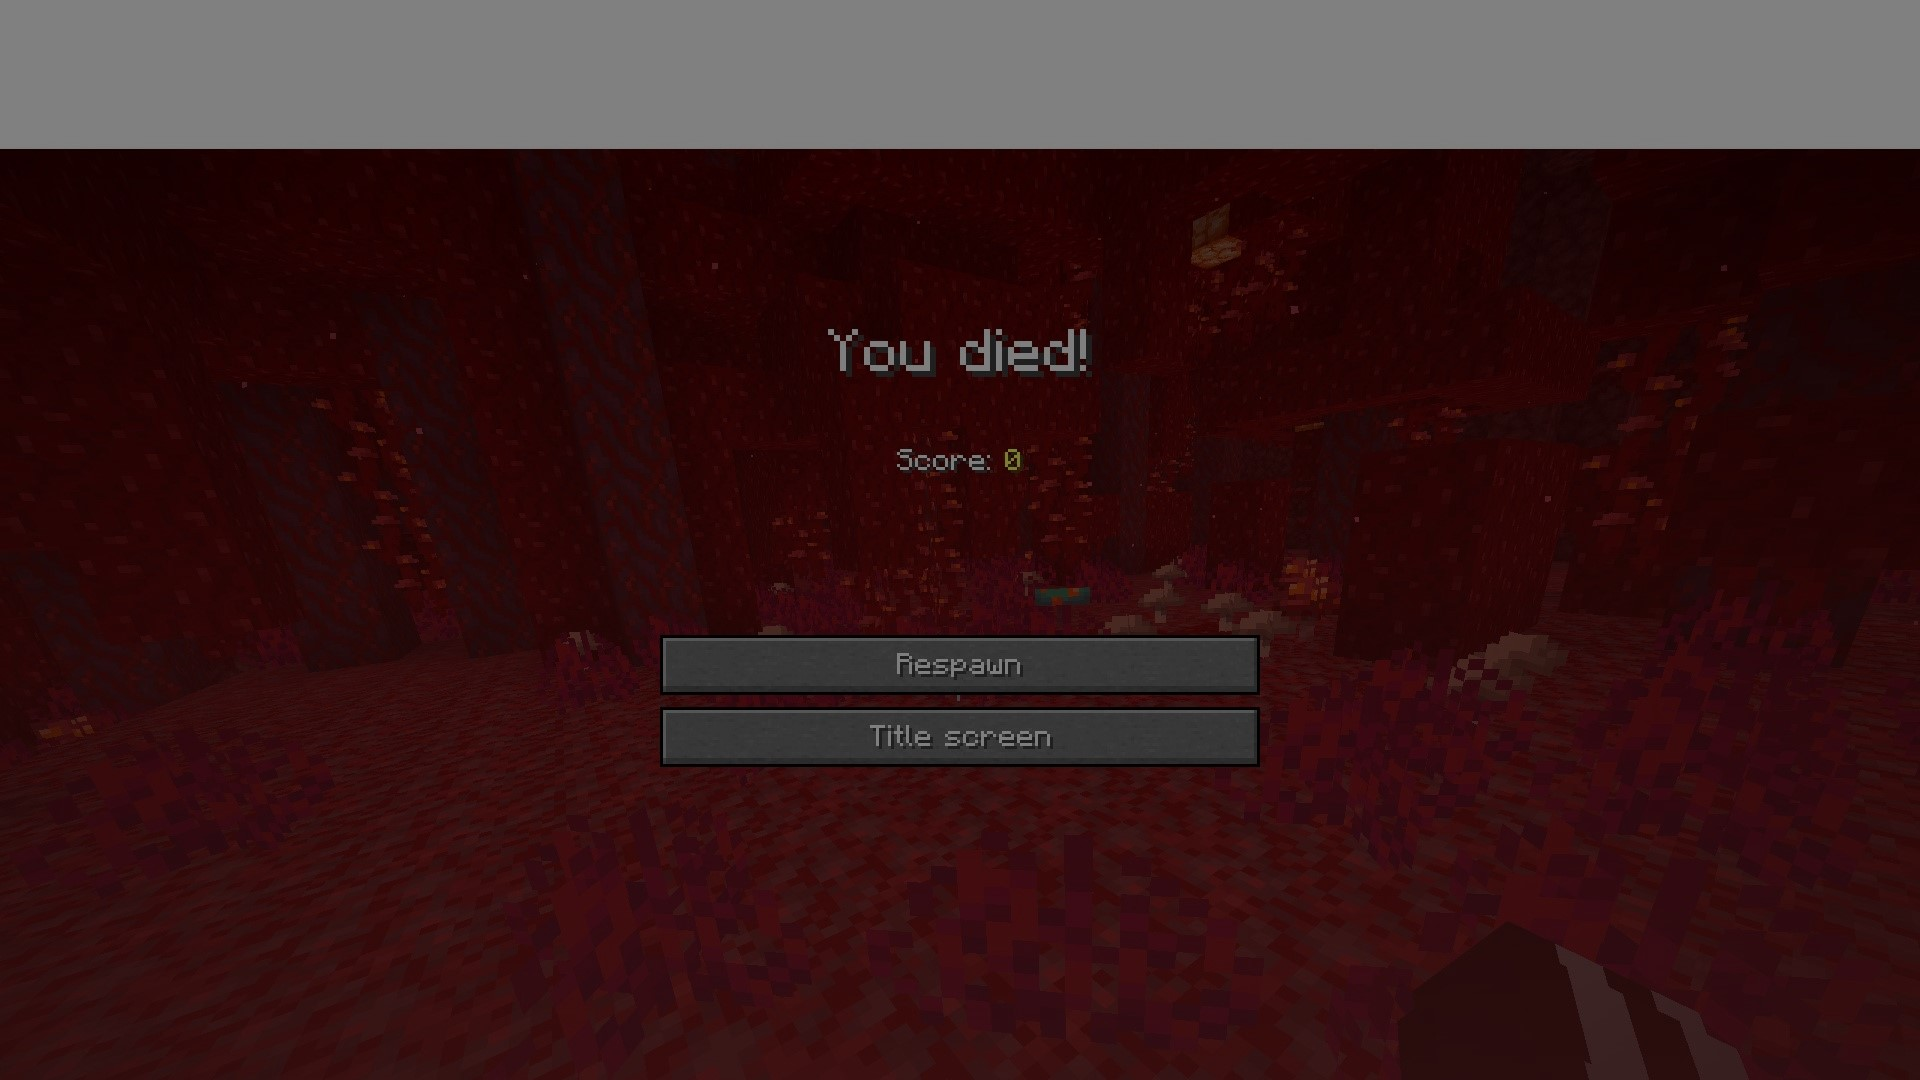
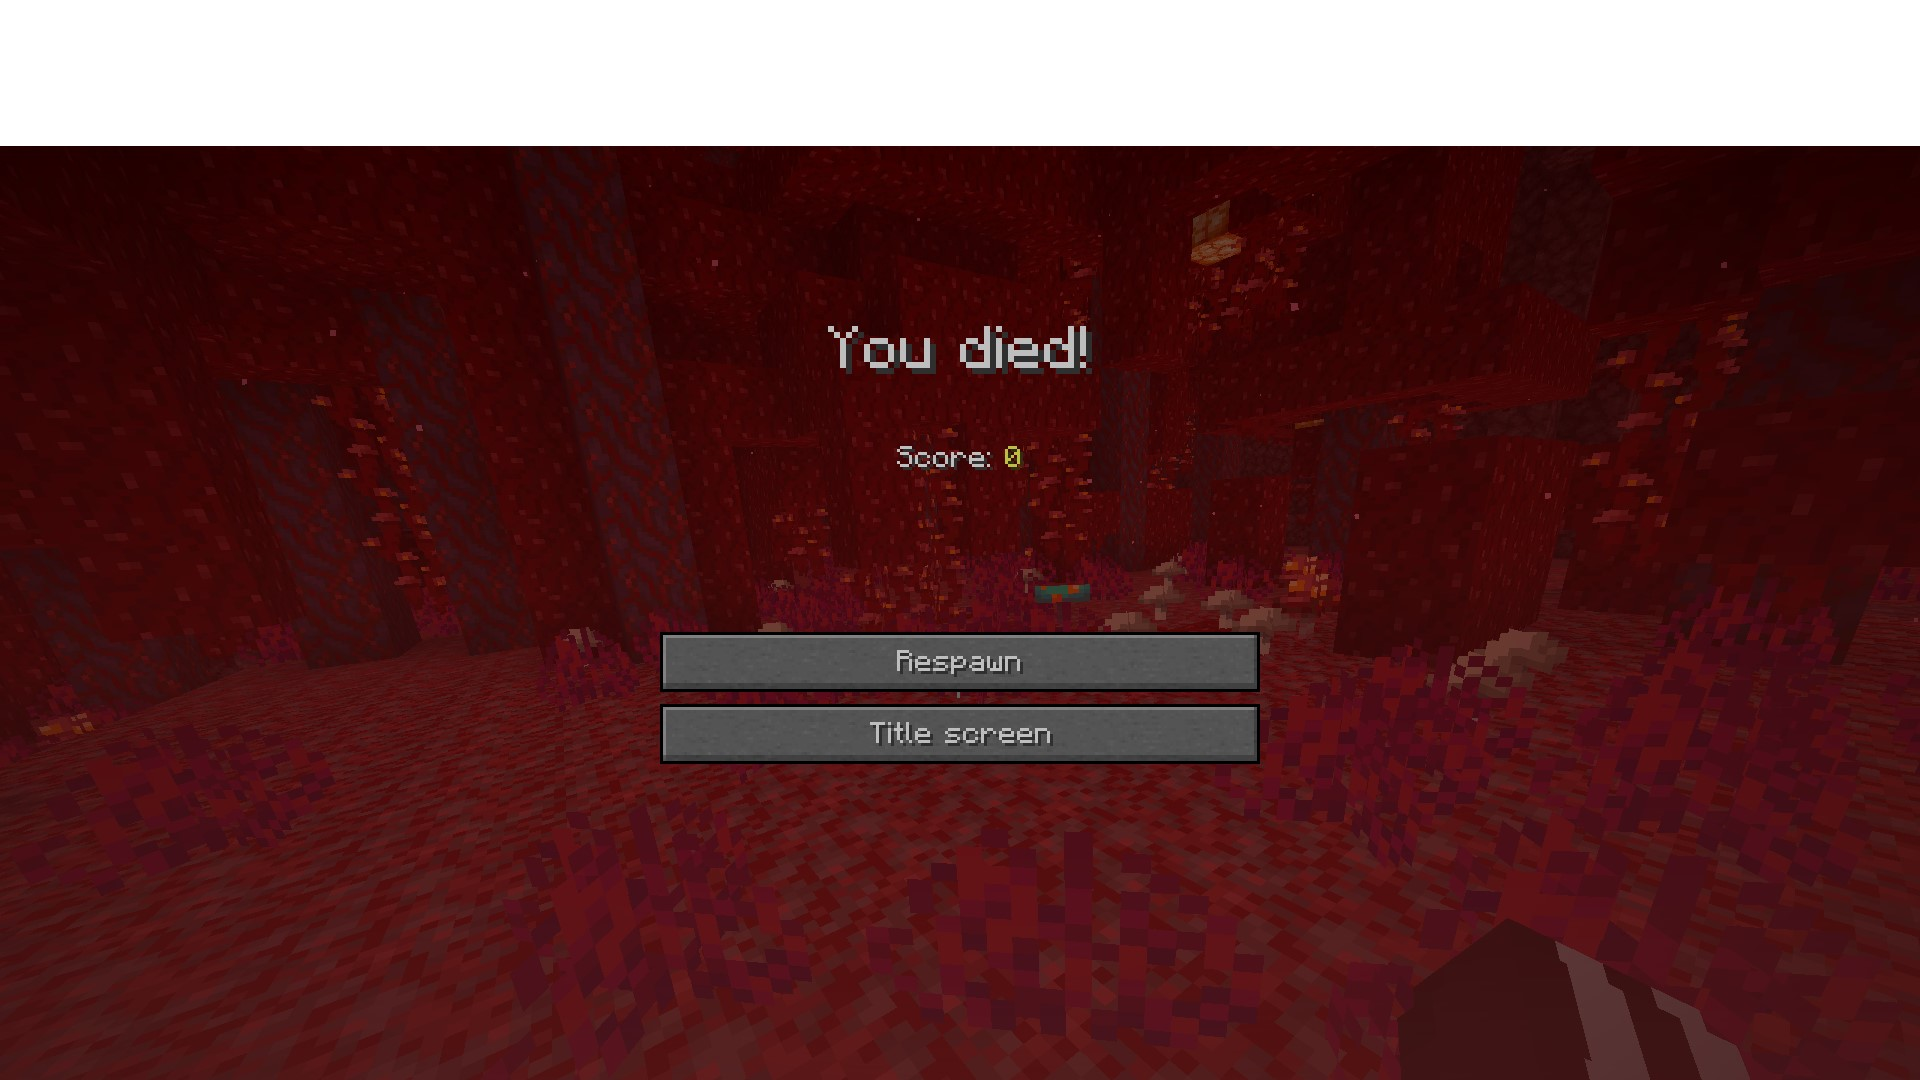
slightly lightened deathpoint background img, added small datapack installation guide for every datapack post, added 'please credit me' text on bottom of home, maps, and datapacks pages, and added news on home page

diff --git a/index.html b/index.html
@@ -4,7 +4,12 @@ background: '/img/bg-index.jpg'
 ---
 <div class="container">
 Welcome to PvPqnda's website! Here, you can find all the information you need about my maps, and how to play them!<br>
-This website is still under development, so expect more to be added soon!
+This website is still under development, so expect more to be added soon!<br>
+<br>
+News:<br>
+Added comments sections to every post on the site!<br>
+New datapack:
+<a href="/datapacks/deathpoint" target="_blank"style="text-decoration: underline;">"DeathPoint"<a>
 <hr>
 </div>
 
@@ -22,6 +27,11 @@ This website is still under development, so expect more to be added soon!
     </div>
     {% endfor %}
   </div>
+<div class="container">
+<br>
+If you are going to use one of my maps or datapacks online such as in a YouTube video or on a server, crediting me or linking the map(s) and/or datapack(s) used would be greatly appreciated.
+<hr>
+</div>
   <!-- Pager -->
   {% if paginator.total_pages > 1 %}
 

diff --git a/datapacks/index.html b/datapacks/index.html
@@ -3,6 +3,9 @@ layout: page
 title: Datapacks
 background: '/img/bg-map.jpg'
 ---
+<div class="container">
+I'll be posting a new datapack every Friday!
+<hr>
 <div class="container-fluid">
   <div class="card-deck" style="justify-content: center;">
     {% for post in site.posts %}
@@ -19,6 +22,11 @@ background: '/img/bg-map.jpg'
     {% endif %}
     {% endfor %}
   </div>
+<div class="container">
+<br>
+If you are going to use one of my maps or datapacks online such as in a YouTube video or on a server, crediting me or linking the map(s) and/or datapack(s) used would be greatly appreciated.
+<hr>
+</div>
   <!-- Pager -->
   {% if paginator.total_pages > 1 %}
 

diff --git a/maps/index.html b/maps/index.html
@@ -19,6 +19,11 @@ background: '/img/bg-map.jpg'
     {% endif %}
     {% endfor %}
   </div>
+<div class="container">
+<br>
+If you are going to use one of my maps or datapacks online such as in a YouTube video or on a server, crediting me or linking the map(s) and/or datapack(s) used would be greatly appreciated.
+<hr>
+</div>
   <!-- Pager -->
   {% if paginator.total_pages > 1 %}
 

diff --git a/_layouts/datapack.html b/_layouts/datapack.html
@@ -30,7 +30,11 @@ layout: default
       </div>
     </div>
   </div>
-  <br>
+<div class="container">
+To install a datapack, drop the datapack file inside the "datapacks" folder inside your world folder, then type "/reload" in-game.
+<hr>
+</div>
+<br>
   <!-- Pictures -->
   <div style="text-align: center;">
     <h2>Media</h2>
